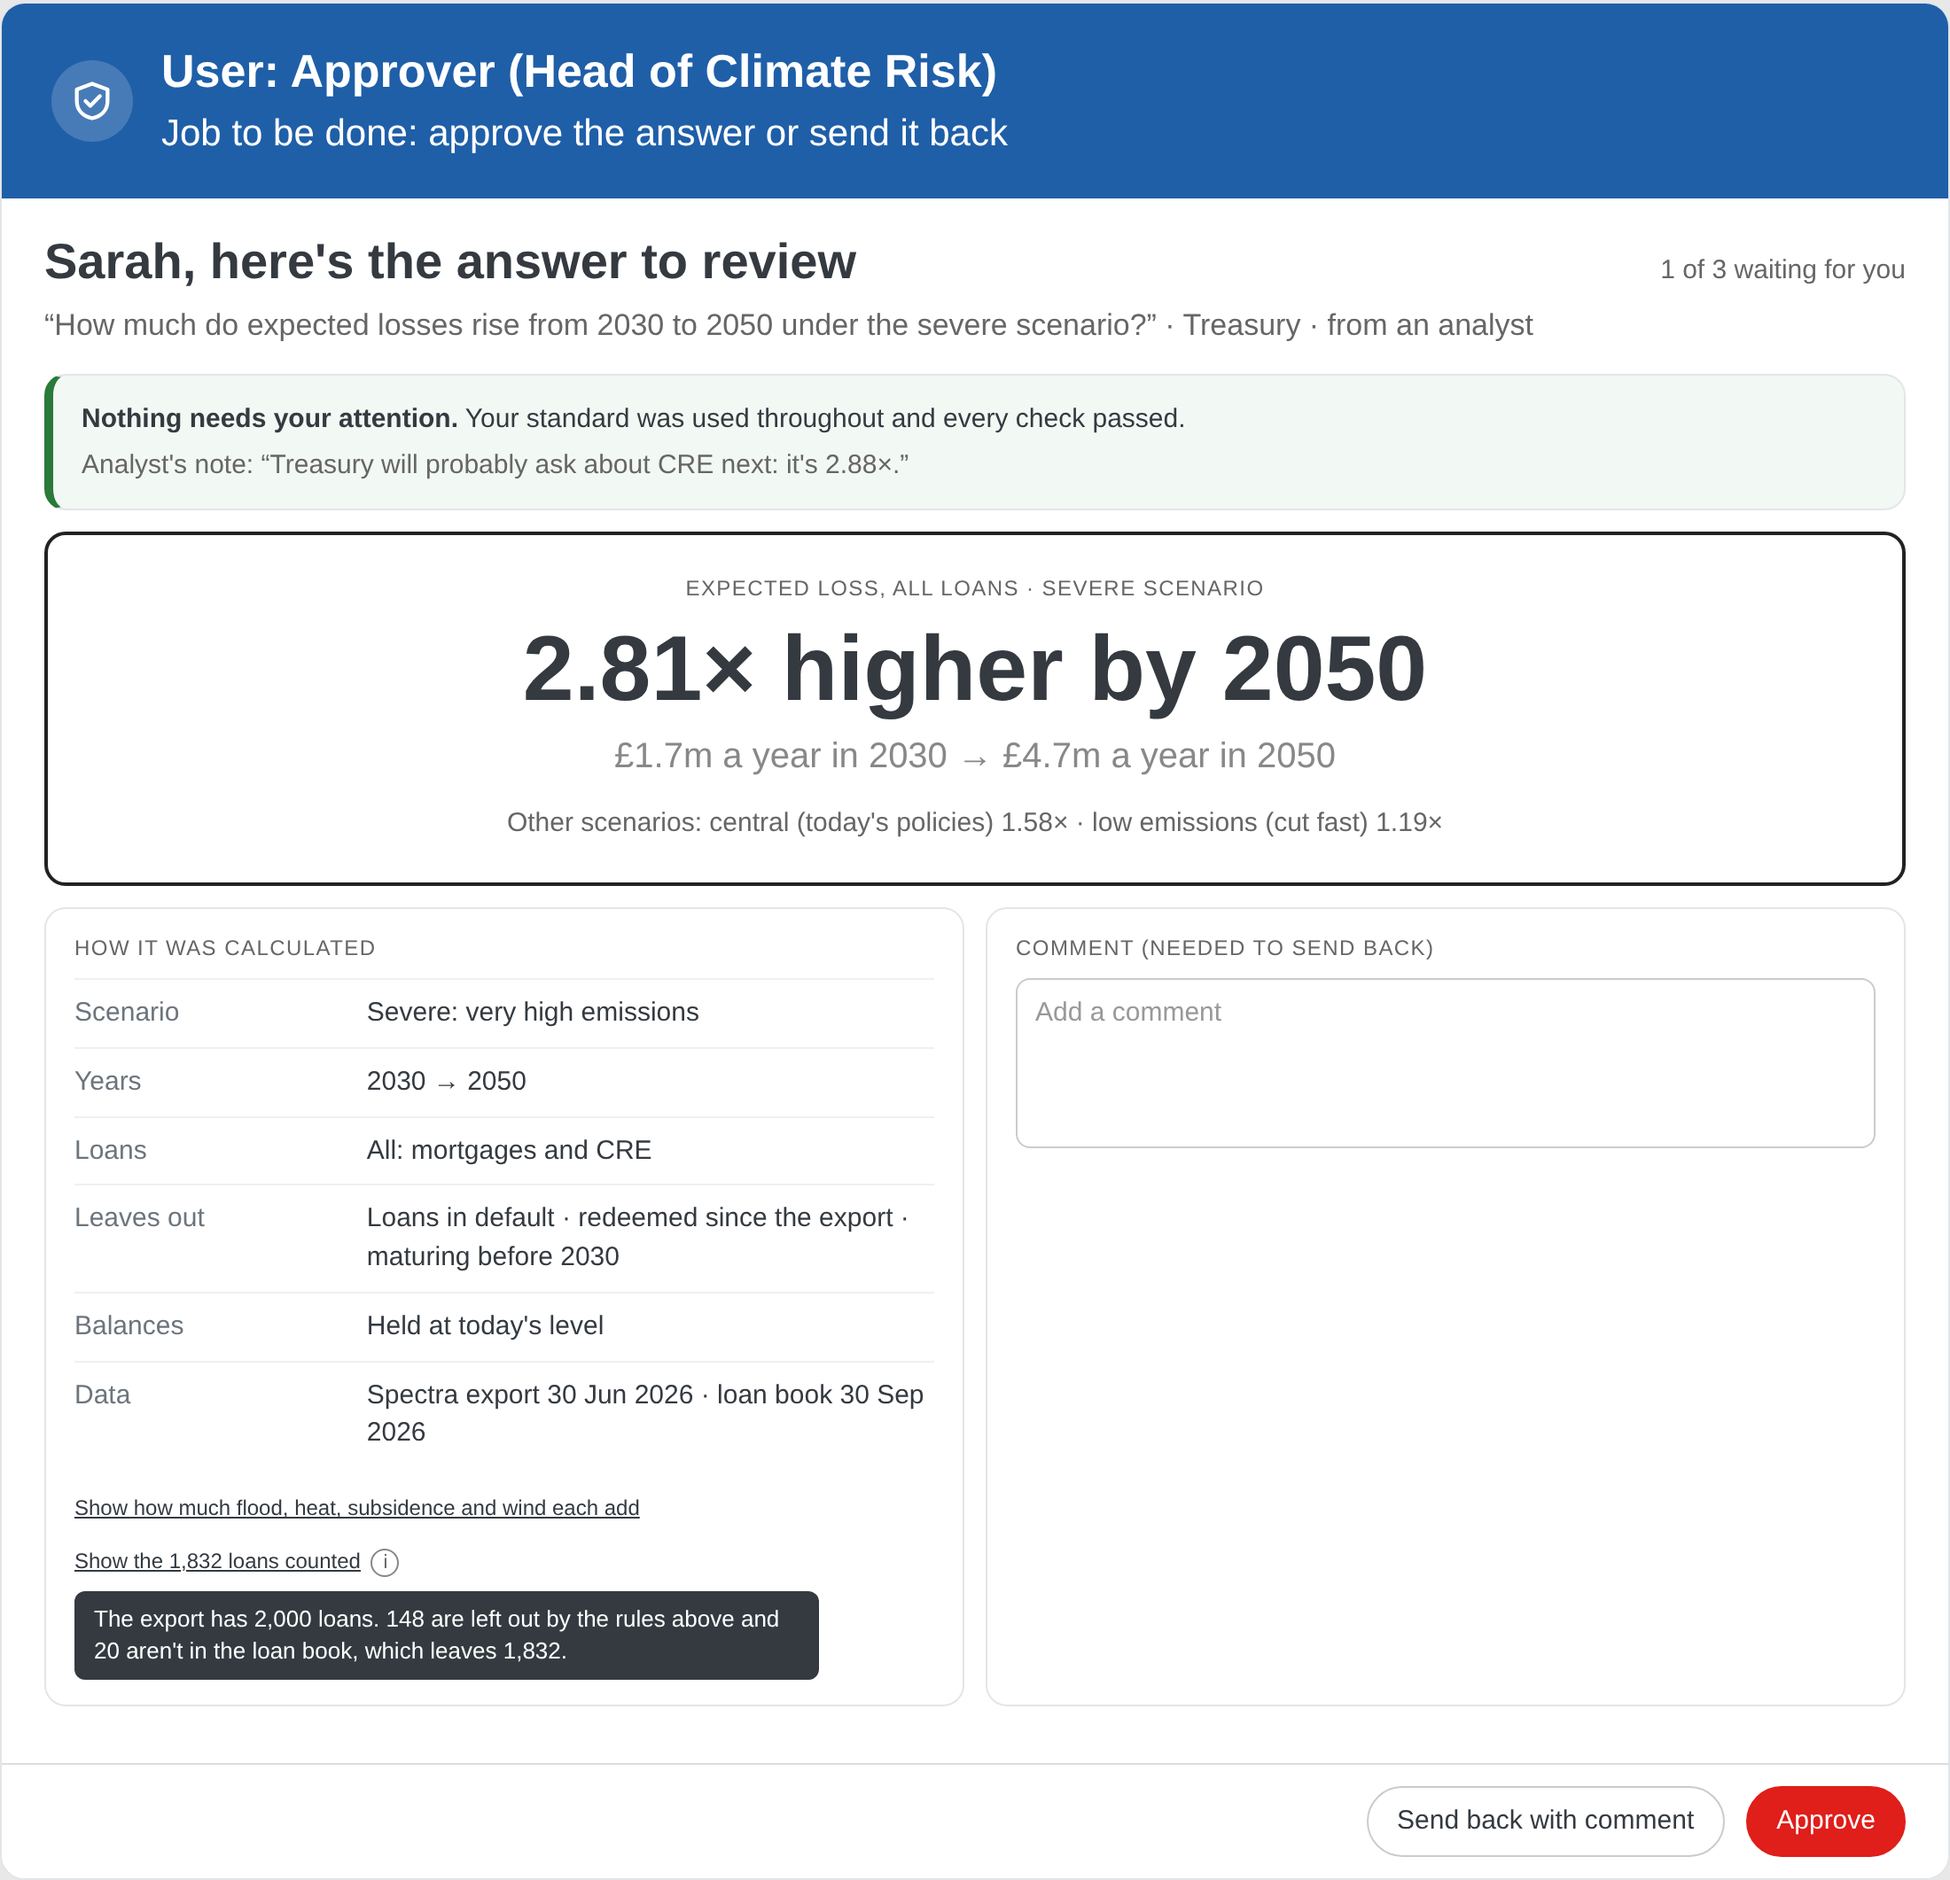
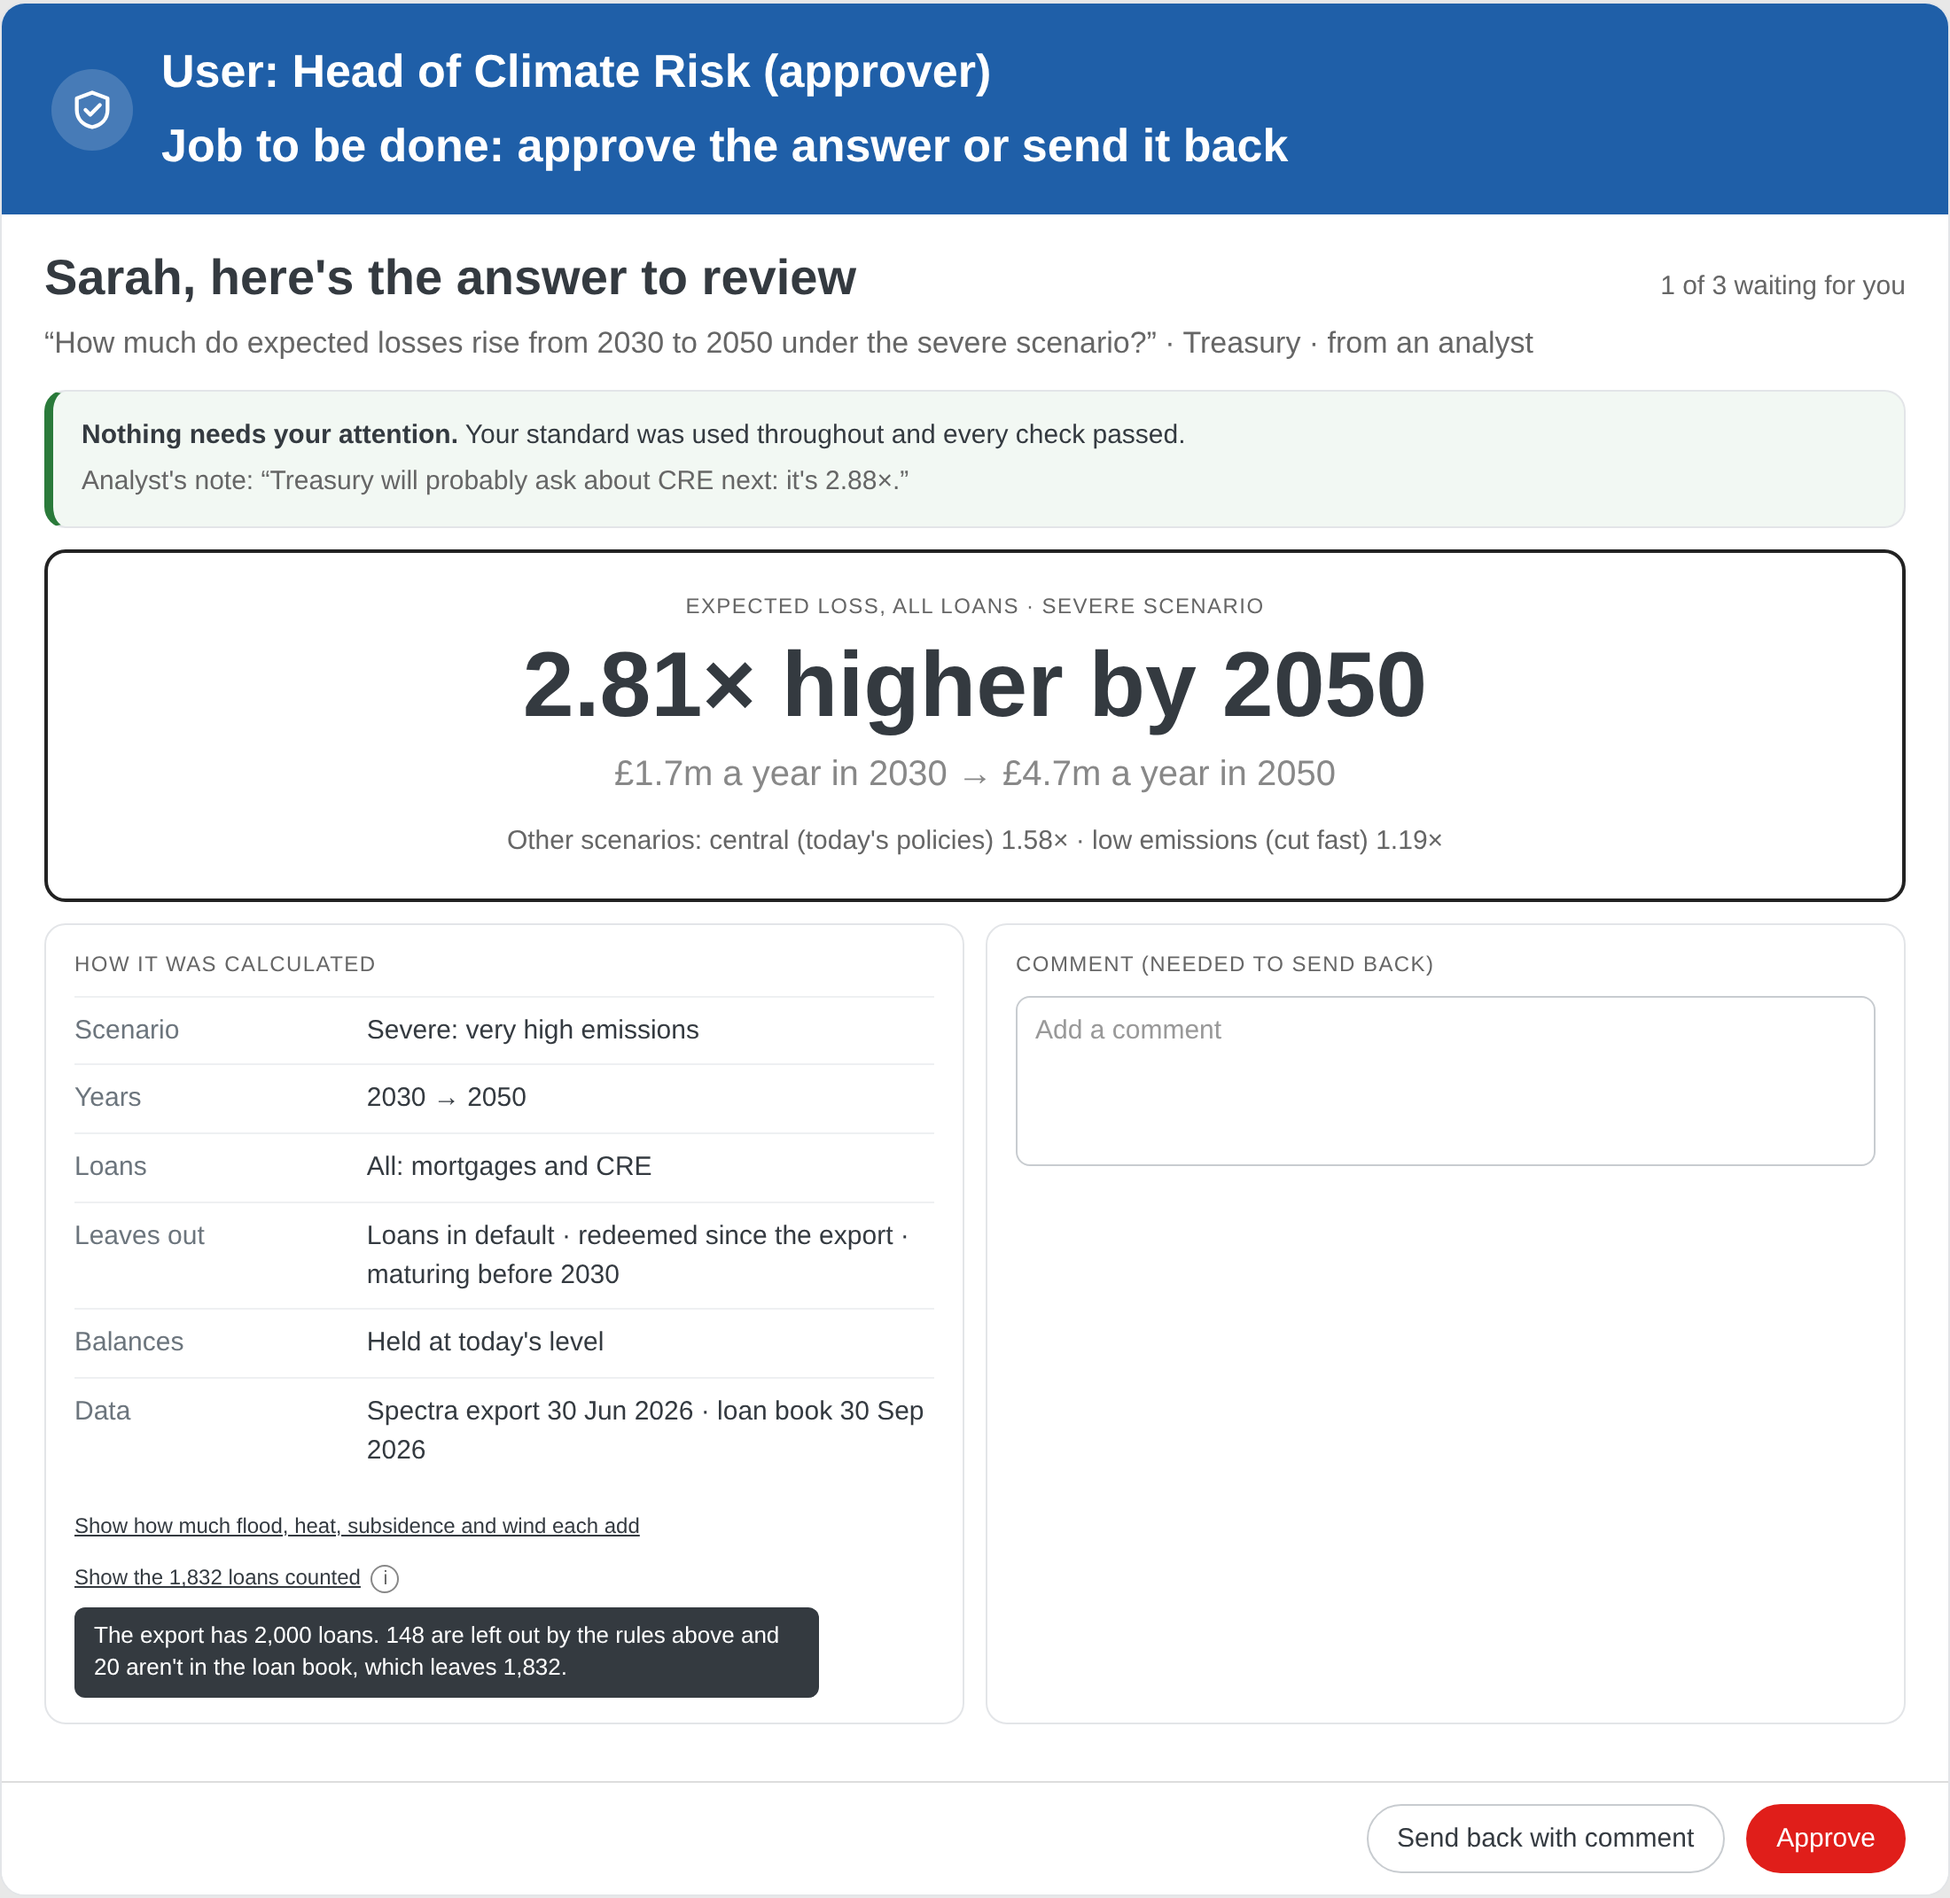
Design: both ribbon lines large; specific user roles
Claude-Session: https://claude.ai/code/session_016JoguXTxkWcj5knaYbAtMZ

diff --git a/runs/run-1/design/solution-design.html b/runs/run-1/design/solution-design.html
@@ -65,12 +65,12 @@ body{font-family:Graphik,Helvetica,Arial,sans-serif;color:#343a40}
 .tip{display:block;background:#343a40;color:#fff;font-size:13px;line-height:1.4;padding:7px 11px;border-radius:6px;margin-top:6px;max-width:420px}.i{display:inline-block;width:16px;height:16px;border-radius:50%;border:1px solid #888;font-size:11px;text-align:center;line-height:15px;color:#666;margin-left:6px}
 .hdr2{background:#1f5fa8 !important;color:#fff;padding:20px 28px;font-size:26px;font-weight:700;display:flex;align-items:center;gap:16px}
 .hdr2 .sep{color:#8a6d1a}.hdr2 .ic{width:46px;height:46px;border-radius:50%;background:rgba(255,255,255,.18);display:inline-flex;align-items:center;justify-content:center;flex:none}
-.hdr2 .u{font-size:26px;font-weight:700}.hdr2 .jtbd{font-size:21px;font-weight:500;margin-top:2px}
+.hdr2 .u{font-size:26px;font-weight:700}.hdr2 .jtbd{font-size:26px;font-weight:700;margin-top:4px}
 .menu{position:absolute;left:0;right:0;top:46px;background:#fff;border:1px solid #c8ccd0;border-radius:10px;box-shadow:0 8px 24px rgba(0,0,0,.12);z-index:5;padding:6px 0}.mi{padding:8px 14px}.mi.on{font-weight:600}.mi.add{border-top:1px solid #eef0f2;margin-top:4px;padding-top:10px;font-weight:600;text-decoration:underline}
 </style></head><body>
 
 <div class="screen" id="draft">
-<div class="hdr2"><span class="ic"><svg width="26" height="26" viewBox="0 0 24 24" fill="none" stroke="#fff" stroke-width="2" stroke-linecap="round"><path d="M4 20V10M10 20V4M16 20v-7M22 20H2"/></svg></span><div><div class="u">User: Analyst</div><div class="jtbd">Job to be done: turn the question into an answer ready for approval</div></div></div>
+<div class="hdr2"><span class="ic"><svg width="26" height="26" viewBox="0 0 24 24" fill="none" stroke="#fff" stroke-width="2" stroke-linecap="round"><path d="M4 20V10M10 20V4M16 20v-7M22 20H2"/></svg></span><div><div class="u">User: Climate risk analyst</div><div class="jtbd">Job to be done: turn the question into an answer ready for approval</div></div></div>
 <div class="steps"><span class="on">Draft</span> ─ Review ─ Send</div>
 <div class="body"><h1>Draft</h1>
 <div class="card">
@@ -110,7 +110,7 @@ body{font-family:Graphik,Helvetica,Arial,sans-serif;color:#343a40}
 </div>
 <div class="foot"><span class="btn">Cancel</span><span class="btn p">Send for approval →</span></div></div>
 <div class="screen" id="review">
-<div class="hdr2"><span class="ic"><svg width="26" height="26" viewBox="0 0 24 24" fill="none" stroke="#fff" stroke-width="2" stroke-linecap="round" stroke-linejoin="round"><path d="M12 3l8 3v6c0 5-3.5 8-8 9-4.5-1-8-4-8-9V6z"/><path d="M8.5 12l2.5 2.5L16 9.5"/></svg></span><div><div class="u">User: Approver (Head of Climate Risk)</div><div class="jtbd">Job to be done: approve the answer or send it back</div></div></div>
+<div class="hdr2"><span class="ic"><svg width="26" height="26" viewBox="0 0 24 24" fill="none" stroke="#fff" stroke-width="2" stroke-linecap="round" stroke-linejoin="round"><path d="M12 3l8 3v6c0 5-3.5 8-8 9-4.5-1-8-4-8-9V6z"/><path d="M8.5 12l2.5 2.5L16 9.5"/></svg></span><div><div class="u">User: Head of Climate Risk (approver)</div><div class="jtbd">Job to be done: approve the answer or send it back</div></div></div>
 <div class="body" style="background:#fff">
 <div style="display:flex;justify-content:space-between;align-items:baseline"><div style="font-size:28px;font-weight:700;margin:6px 0 4px">Sarah, here's the answer to review</div><div class="sub">1 of 3 waiting for you</div></div>
 <div class="q" style="font-size:17px">“How much do expected losses rise from 2030 to 2050 under the severe scenario?” · Treasury · from an analyst</div>
@@ -135,7 +135,7 @@ body{font-family:Graphik,Helvetica,Arial,sans-serif;color:#343a40}
 </div></div>
 <div class="foot"><span></span><span><span class="btn">Send back with comment</span> &nbsp; <span class="btn p">Approve</span></span></div></div>
 <div class="screen" id="send">
-<div class="hdr2"><span class="ic"><svg width="26" height="26" viewBox="0 0 24 24" fill="none" stroke="#fff" stroke-width="2" stroke-linecap="round"><path d="M4 20V10M10 20V4M16 20v-7M22 20H2"/></svg></span><div><div class="u">User: Analyst</div><div class="jtbd">Job to be done: send the approved answer to whoever asked</div></div></div>
+<div class="hdr2"><span class="ic"><svg width="26" height="26" viewBox="0 0 24 24" fill="none" stroke="#fff" stroke-width="2" stroke-linecap="round"><path d="M4 20V10M10 20V4M16 20v-7M22 20H2"/></svg></span><div><div class="u">User: Climate risk analyst</div><div class="jtbd">Job to be done: send the approved answer to whoever asked</div></div></div>
 <div class="steps">Draft ─ Review ─ <span class="on">Send</span></div>
 <div class="body"><h1>Ready to send</h1>
 <div class="q"><span class="tag" style="color:#2a7a3a;border-color:#2a7a3a">✓ Approved by Sarah · 14:10</span> &nbsp; Asked this morning, ready the same day</div>
